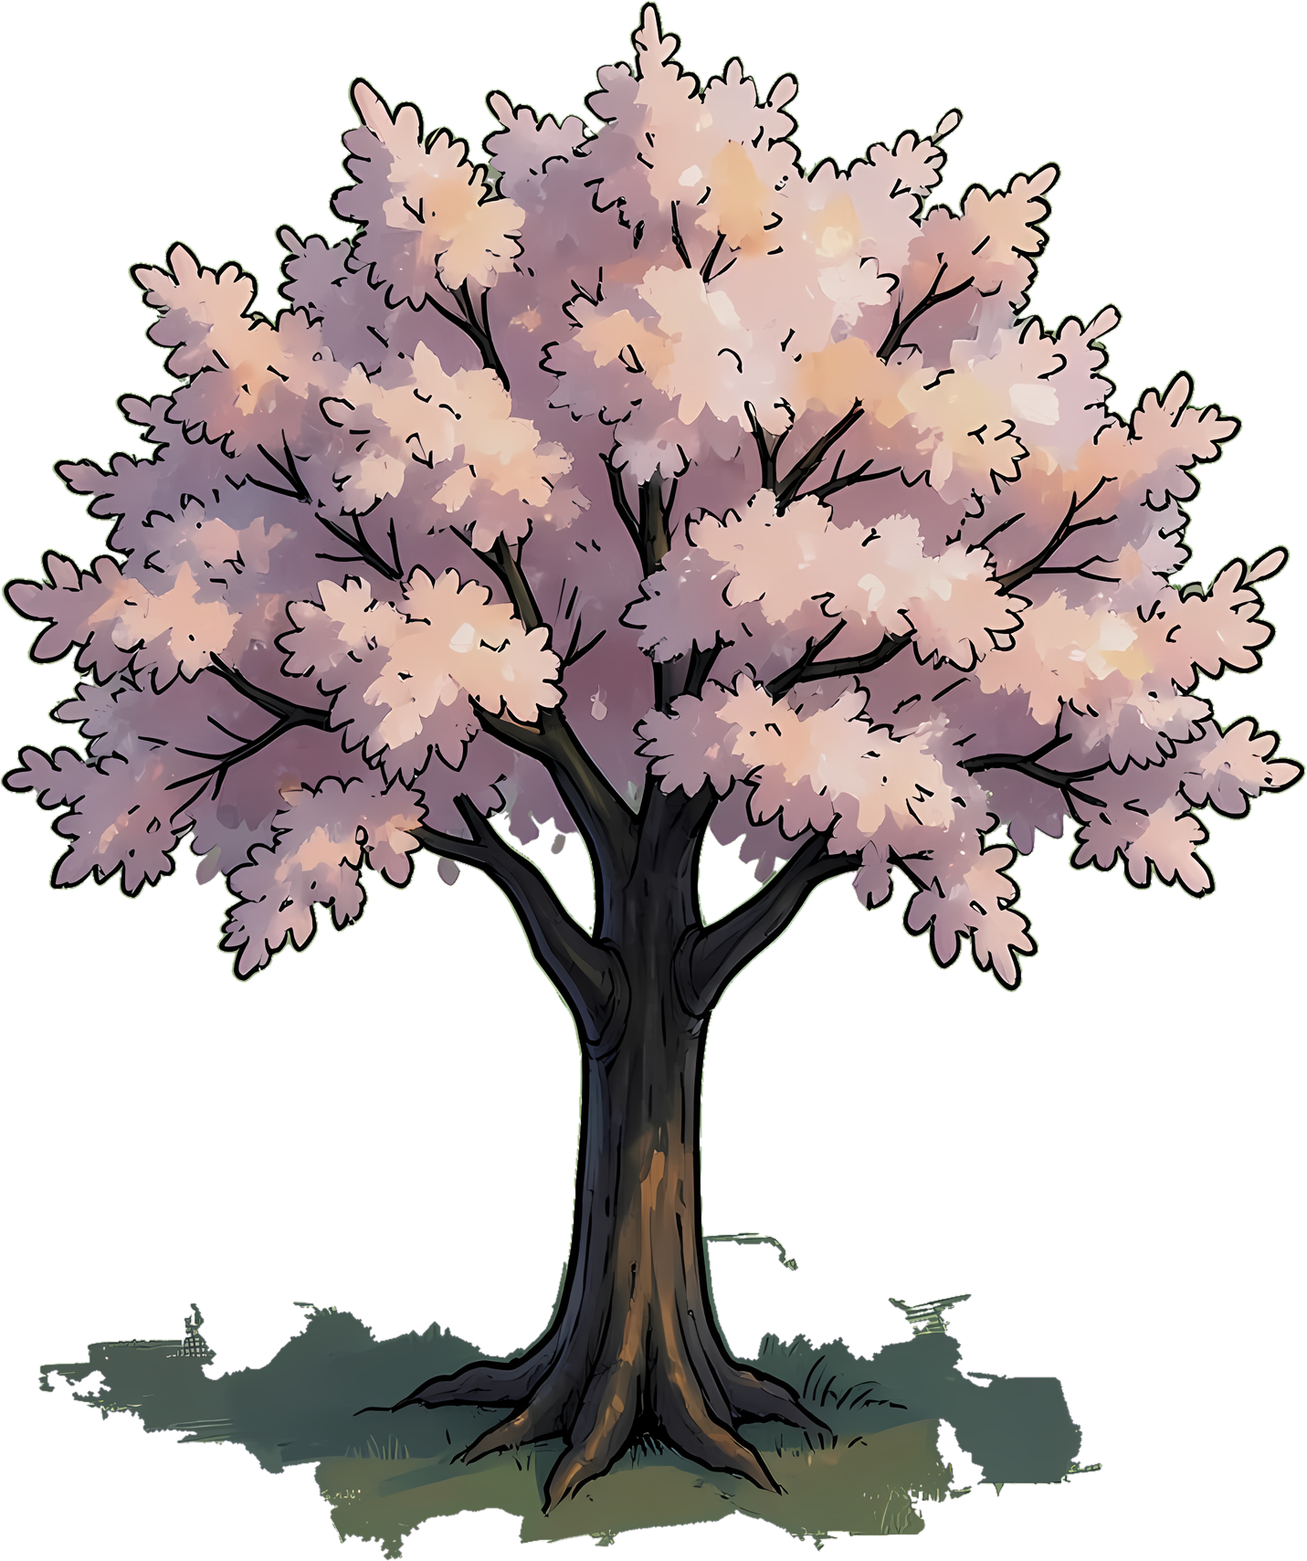
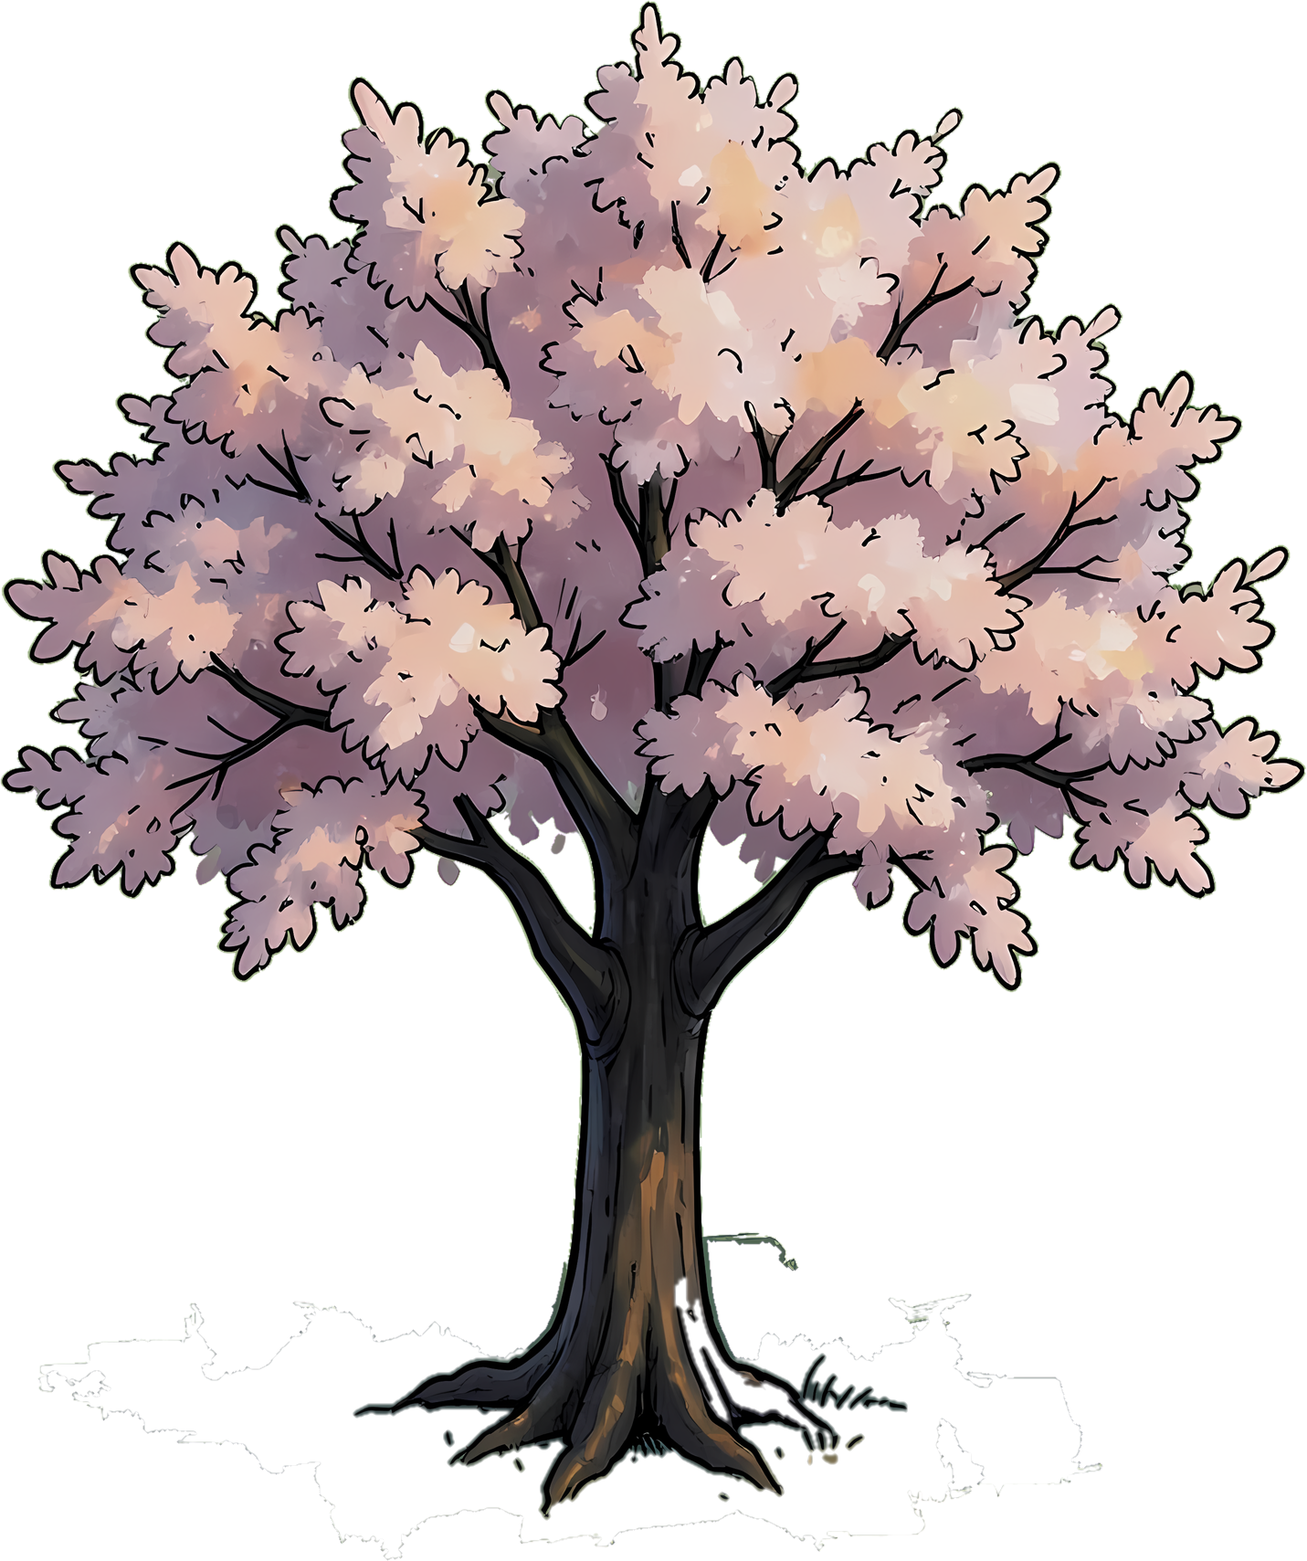
Mapas de normales para los 18 árboles Arcane y sprites sin suelo pintado
tools/normales_elementos.py genera <id>_normal.png (inflado por silueta, piezas de tinta y pinceladas) y con
--quitar-suelo borra la hierba y la sombra pintada que el recorte traía al pie (originales en v1_con_suelo/).
Dibujo.ts carga el normal y screenTex lo cuelga de la textura de pantalla (variante _f para los volteados), así
los árboles van con el pipeline Cel y de noche la farola les da por su lado. Capturas en assets/gen/normales/elementos/.

Changed region(s): [[0.0307, 0.8063, 0.8302, 1.0]]

diff --git a/src/render/Terrain.ts b/src/render/Terrain.ts
@@ -41,19 +41,38 @@ export const DECALS: DecalKind[] = [
 
 // Textura reducida de antemano a `ph` px de alto en pantalla, a mitades (la GPU sin mipmaps
 // dentaría los trazos al reducir mucho).
-export function screenTex(scene: Phaser.Scene, name: string, ph: number): string {
+// Reduce la textura `name` al alto `ph` en pantalla (por mitades, con suavizado) y la cachea como `${name}_${ph}`.
+// Si hay un mapa de normales `${name}_nrm` (tools/normales_elementos.py), se reduce igual y se cuelga como dataSource
+// de la textura: así Aventura/WorldScene le ponen el pipeline «Cel» y la luz le da volumen. Con `flip` (el elemento va
+// con setFlipX) la X de la normal se invierte (rojo = 255 - rojo), porque el pipeline de luz de Phaser no voltea las
+// normales; sale una textura aparte (`_f`), con la misma imagen.
+export function screenTex(scene: Phaser.Scene, name: string, ph: number, flip = false): string {
   const src = scene.textures.get(name).getSourceImage() as HTMLImageElement | HTMLCanvasElement;
-  const pw = Math.round(src.width * ph / src.height), key = `${name}_${ph}`;
+  const nrm = scene.textures.exists(name + '_nrm') ? scene.textures.get(name + '_nrm').getSourceImage() as HTMLImageElement | HTMLCanvasElement : null;
+  const pw = Math.round(src.width * ph / src.height), key = `${name}_${ph}${nrm && flip ? '_f' : ''}`;
   if (!scene.textures.exists(key)) {
-    let c: HTMLImageElement | HTMLCanvasElement = src, cw = src.width, ch = src.height;
-    do {
-      cw = Math.max(pw, Math.round(cw / 2)); ch = Math.max(ph, Math.round(ch / 2));
-      const n = document.createElement('canvas'); n.width = cw; n.height = ch;
-      const g = n.getContext('2d')!; g.imageSmoothingQuality = 'high'; g.drawImage(c, 0, 0, cw, ch); c = n;
-    } while (cw > pw || ch > ph);
-    scene.textures.addCanvas(key, c as HTMLCanvasElement)!.setFilter(Phaser.Textures.FilterMode.LINEAR);
+    const tex = scene.textures.addCanvas(key, reducir(src, pw, ph))!;
+    tex.setFilter(Phaser.Textures.FilterMode.LINEAR);
+    if (nrm) {
+      const n = reducir(nrm, pw, ph);
+      if (flip) {
+        const g = n.getContext('2d')!, d = g.getImageData(0, 0, n.width, n.height);
+        for (let i = 0; i < d.data.length; i += 4) d.data[i] = 255 - d.data[i];
+        g.putImageData(d, 0, 0);
+      }
+      tex.setDataSource(n);
+    }
   }
   return key;
+}
+function reducir(src: HTMLImageElement | HTMLCanvasElement, pw: number, ph: number): HTMLCanvasElement {
+  let c: HTMLImageElement | HTMLCanvasElement = src, cw = src.width, ch = src.height;
+  do {
+    cw = Math.max(pw, Math.round(cw / 2)); ch = Math.max(ph, Math.round(ch / 2));
+    const n = document.createElement('canvas'); n.width = cw; n.height = ch;
+    const g = n.getContext('2d')!; g.imageSmoothingQuality = 'high'; g.drawImage(c, 0, 0, cw, ch); c = n;
+  } while (cw > pw || ch > ph);
+  return c as HTMLCanvasElement;
 }
 
 function pixels(scene: Phaser.Scene, key: string): Uint8ClampedArray {

diff --git a/src/render/Dibujo.ts b/src/render/Dibujo.ts
@@ -8,6 +8,9 @@ import { F, PNG_X, type Colocado } from '../data/mapaDibujo';
 import { screenTex } from './Terrain';
 
 export const L = '/lab/assets/';
+// Elementos Arcane con mapa de normales (tools/normales_elementos.py: <id>_normal.png junto al PNG). Se cargan como
+// `el_<id>_nrm` y screenTex los cuelga de la textura de pantalla; con eso el elemento va con el pipeline «Cel».
+const NORMALES = new Set(Object.keys(import.meta.glob('/lab/assets/elementos_arcane/*_normal.png')).map(r => r.replace(/^.*\//, '').replace('_normal.png', '')));
 export const SOMBRA_ALFA = 0.45;
 
 export interface Elemento {
@@ -109,6 +112,7 @@ export function precargar(scene: Phaser.Scene, cat: { elementos: Elemento[]; vec
     if (el.sombra) scene.load.image('so_' + el.id, `${L}${dir}/${el.sombra.archivo}`);
     if (dir === 'elementos_klein' && vec.has(el.id)) scene.load.svg('el_' + el.id, `${L}vector/elementos_klein/${el.id}.svg`, { scale: F / PNG_X * S * (el.k ?? 1) * (ESCALA[el.id] ?? 1) });
     else scene.load.image('el_' + el.id, `${L}${dir}/${el.archivo}`);
+    if (dir === 'elementos_arcane' && NORMALES.has(el.id)) scene.load.image('el_' + el.id + '_nrm', `${L}${dir}/${el.id}_normal.png`);
   }
 }
 
@@ -121,7 +125,7 @@ export function ponerTinteSombra(t: number): void { tinteSombra = t; }
 // ordenado por la base de su huella; los planos (caminos, detalles, estanque) van a ras de suelo.
 export function dibujar(scene: Phaser.Scene, el: Elemento, c: Colocado): Pieza {
   const k = F / PNG_X * (c.s ?? 1) * (el.k ?? 1) * (ESCALA[el.id] ?? 1), hM = el.h * k;
-  const key = screenTex(scene, 'el_' + el.id, Math.max(1, Math.round(hM * S)));
+  const key = screenTex(scene, 'el_' + el.id, Math.max(1, Math.round(hM * S)), !!c.flip);
   const [ax, ay] = el.ancla, plano = el.tipo === 'piedras' || el.tipo === 'losa' || el.tipo === 'detalle' || el.tipo === 'estanque' || el.tipo === 'puente';
   // Farolas: la huella del catálogo abarca medio poste (no se podía pasar por detrás); solo la base de piedra.
   let hu = el.huella ?? (el.huellas ? [Math.min(...el.huellas.map(q => q[0])), Math.min(...el.huellas.map(q => q[1])), Math.max(...el.huellas.map(q => q[2])), Math.max(...el.huellas.map(q => q[3]))] as Elemento['huella'] : null);

diff --git a/tools/normales_elementos.py b/tools/normales_elementos.py
@@ -1,0 +1,196 @@
+"""Mapas de normales para los elementos del escenario (catálogo Arcane), para el pipeline cel / Light2D.
+
+Uso:  python -I tools/normales_elementos.py --arboles [--vista]
+      python -I tools/normales_elementos.py arbol_alto sauce [--reduccion 2] [--fuerza 1.5] [--detalle 4] [--vista]
+
+Para cada `lab/assets/elementos_arcane/<id>.png` escribe `<id>_normal.png` al lado, a 1/`reduccion` del tamaño del
+PNG (los PNG van a ×2 del dibujo y en pantalla se reducen mucho más; a la mitad sobra resolución y el archivo pesa
+un cuarto). El juego lo carga como `el_<id>_nrm` (src/render/Dibujo.ts) y `screenTex` lo reduce junto al elemento y
+lo cuelga como dataSource de la textura de pantalla; con eso Aventura/WorldScene le ponen el pipeline «Cel».
+Con `--vista` guarda una comparativa en `assets/gen/normales/elementos/<id>.png` (elemento, normal y 4 luces).
+
+Cómo se calcula la altura (el mismo "inflado" de tools/normales_pokemon.py, adaptado a un dibujo grande pintado):
+  1. silueta: distancia al borde → semiesfera (la copa entera abomba; el tronco, estrecho, sale como un cilindro);
+  2. piezas: las líneas de tinta (casi negras) separan las matas de hojas, las ramas y la corteza; cada pieza se
+     infla por su cuenta y la línea queda como un surco (altura del vecino más bajo);
+  3. detalle: paso alto de la luminancia (las pinceladas) añade relieve fino;
+  4. suelo: la hierba y la sombra pintada que el recorte trae pegadas al pie (opacas, sin tinta alrededor: densidad de
+     tinta casi nula en la mitad de abajo, manchas que llegan a la base) se aplanan, para que no salgan como un montículo.
+Convención OpenGL (verde = arriba), la de Phaser. Fuera del elemento, normal plana (128,128,255).
+
+`--quitar-suelo` (2026-10-17): además borra ese suelo pintado del PNG del elemento (alfa 0, borde suavizado), guardando
+antes el original en `lab/assets/elementos_arcane/v1_con_suelo/<id>.png`. El sprite queda solo con el árbol; la sombra la
+pone el juego (óvalo de día; de noche, sin sombra pintada que se encienda con las farolas). La máscara se calcula a la
+resolución reducida y se amplía al PNG; se extiende a lo verdoso pegado a la mancha que no esté encerrado por tinta (el
+ribete de hierba junto a las raíces), y respeta la tinta y lo que encierra (raíces, copas bajas). Después hay que pasar lab/tools/mascaras_arcane.py (la silueta `cubre` del catálogo cambia).
+"""
+import argparse
+import json
+import os
+import sys
+
+import numpy as np
+from PIL import Image
+from scipy import ndimage as ndi
+
+RAIZ = os.path.dirname(os.path.dirname(os.path.abspath(__file__)))
+sys.path.insert(0, os.path.dirname(os.path.abspath(__file__)))
+from normales_pokemon import inflar, iluminar, normales  # noqa: E402
+
+CARPETA = os.path.join(RAIZ, 'lab', 'assets', 'elementos_arcane')
+VISTAS = os.path.join(RAIZ, 'assets', 'gen', 'normales', 'elementos')
+# Los árboles del catálogo (por id: las farolas también son `tipo: arbol` y las arboledas, `roca`).
+PREFIJOS_ARBOL = ('arbol_', 'arboleda_', 'sauce', 'palmera', 'pino_')
+
+
+def catalogo() -> dict[str, dict]:
+    with open(os.path.join(CARPETA, 'elementos.json'), encoding='utf-8') as f:
+        return {e['id']: e for e in json.load(f)['elementos']}
+
+
+def arboles() -> list[str]:
+    return sorted(i for i in catalogo() if i.startswith(PREFIJOS_ARBOL))
+
+
+def tinta(rgba: np.ndarray, umbral: float = 0.07) -> tuple[np.ndarray, np.ndarray, np.ndarray]:
+    """Alfa, luminancia y líneas de tinta (casi negras) de un elemento."""
+    a = rgba[..., 3] > 128
+    rgb = rgba[..., :3].astype(np.float32) / 255
+    lum = 0.299 * rgb[..., 0] + 0.587 * rgb[..., 1] + 0.114 * rgb[..., 2]
+    return a, lum, a & (lum < umbral)
+
+
+def mascara_suelo(a: np.ndarray, contorno: np.ndarray) -> np.ndarray:
+    """Suelo pintado que el recorte trae pegado al pie: manchas opacas sin tinta alrededor (densidad de tinta casi nula
+    en una ventana de 41 px), en la mitad de abajo y que llegan a la base (hierba, sombra pintada). Sin la banda de
+    seguridad junto a la tinta: eso lo decide quien la use."""
+    H = a.shape[0]
+    dens = ndi.uniform_filter(contorno.astype(np.float32), 41)
+    ys = np.arange(H)[:, None]
+    tierra = a & (dens < 0.012) & (ys > 0.5 * H)
+    tierra = ndi.binary_opening(tierra, iterations=4)
+    etiq, n = ndi.label(tierra)
+    if not n:
+        return tierra
+    ymax = ndi.maximum(np.broadcast_to(ys, a.shape), etiq, index=np.arange(1, n + 1))
+    return np.isin(etiq, 1 + np.flatnonzero(np.asarray(ymax) > 0.85 * H))
+
+
+def altura(rgba: np.ndarray, detalle_k: float, umbral: float = 0.07) -> tuple[np.ndarray, np.ndarray]:
+    a, lum, contorno = tinta(rgba, umbral)
+    # 1. silueta
+    h_sil = inflar(a, 0.9)
+    # 2. piezas separadas por la tinta; la línea es un surco: altura del vecino interior más bajo
+    interior = a & ~contorno
+    h_pz = inflar(interior, 1.0)
+    if contorno.any():
+        hp = np.where(interior, h_pz, 1e9)
+        vecino_min = ndi.minimum_filter(hp, size=5)
+        vecino_min = np.where(vecino_min > 1e8, 0, vecino_min)
+        h_pz = np.where(contorno, np.maximum(vecino_min - 1.0, 0), h_pz)
+    # 3. detalle: paso alto de la luminancia, solo dentro (sin inventar relieve en el borde)
+    sigma = 2.0
+    lum_in = np.where(a, lum, 0)
+    peso = ndi.gaussian_filter(a.astype(np.float32), sigma)
+    suave = ndi.gaussian_filter(lum_in, sigma) / np.maximum(peso, 1e-3)
+    detalle = np.where(a, lum - suave, 0)
+    h = 0.5 * h_sil + 0.9 * h_pz
+    # 4. suelo: se aplana (si el PNG ya está limpio con --quitar-suelo, la máscara sale vacía)
+    tierra = mascara_suelo(a, contorno)
+    if tierra.any():
+        tierra = ndi.binary_dilation(tierra, iterations=6) & a
+        h = h * (1 - ndi.gaussian_filter(tierra.astype(np.float32), 4))
+    h = h + detalle_k * detalle
+    return np.where(a, h, 0).astype(np.float32), a
+
+
+def reducir(img: Image.Image, reduccion: int) -> np.ndarray:
+    """RGBA reducido con el color desmezclado del alfa (sin halos oscuros del fondo transparente)."""
+    W, H = img.size
+    w, h = max(1, round(W / reduccion)), max(1, round(H / reduccion))
+    src = np.asarray(img).astype(np.float32)
+    prem = src.copy(); prem[..., :3] *= src[..., 3:4] / 255
+    red = np.asarray(Image.fromarray(np.clip(prem, 0, 255).astype(np.uint8)).resize((w, h), Image.LANCZOS)).astype(np.float32)
+    al = np.maximum(red[..., 3:4], 1)
+    rgba = red.copy(); rgba[..., :3] = np.clip(red[..., :3] * 255 / al, 0, 255)
+    return rgba.astype(np.uint8)
+
+
+def quitar_suelo(id_: str, reduccion: int) -> bool:
+    """Borra el suelo pintado del PNG (original a v1_con_suelo/). Devuelve si había algo que quitar."""
+    ruta = os.path.join(CARPETA, f'{id_}.png')
+    img = Image.open(ruta).convert('RGBA')
+    a, _, contorno = tinta(reducir(img, reduccion))
+    tierra = mascara_suelo(a, contorno)
+    if not tierra.any():
+        return False
+    # Lo que rodea la mancha (ribete de hierba junto a las raíces, matas entre raíz y raíz) también se va si es verdoso,
+    # no es tinta ni nieve y no está encerrado por tinta (las copas bajas y las raíces sí lo están).
+    rgb = reducir(img, reduccion)[..., :3].astype(np.int16)
+    _, lum, _ = tinta(reducir(img, reduccion))
+    verdoso = (rgb[..., 1] >= rgb[..., 0] - 5) & (lum < 0.55)
+    cerrado = ndi.binary_fill_holes(ndi.binary_dilation(contorno, iterations=2))
+    ys = np.arange(a.shape[0])[:, None]
+    candidata = a & verdoso & ~cerrado & ~contorno & (ys > 0.5 * a.shape[0])
+    etiq, n = ndi.label(candidata | tierra)   # lo verdoso que toca la mancha (la tinta hace de barrera)
+    toca = np.unique(etiq[tierra]); toca = toca[toca > 0]
+    tierra = np.isin(etiq, toca)
+    W, H = img.size
+    m = np.asarray(Image.fromarray(tierra.astype(np.uint8) * 255).resize((W, H), Image.BILINEAR)).astype(np.float32) / 255
+    m = np.clip(ndi.gaussian_filter(m, 1.5) * 1.3, 0, 1)   # borde suave sin dejar un halo de medio píxel
+    copia = os.path.join(CARPETA, 'v1_con_suelo')
+    os.makedirs(copia, exist_ok=True)
+    if not os.path.exists(os.path.join(copia, f'{id_}.png')):
+        img.save(os.path.join(copia, f'{id_}.png'))
+    rgba = np.asarray(img).copy()
+    rgba[..., 3] = np.clip(np.round(rgba[..., 3] * (1 - m)), 0, 255).astype(np.uint8)
+    Image.fromarray(rgba).save(ruta, optimize=True)
+    return True
+
+
+def procesar(id_: str, reduccion: int, fuerza: float, detalle_k: float, vista: bool) -> str:
+    img = Image.open(os.path.join(CARPETA, f'{id_}.png')).convert('RGBA')
+    rgba = reducir(img, reduccion)
+    h, w = rgba.shape[:2]
+    hh, a = altura(rgba, detalle_k)
+    nrm = normales(hh, a, fuerza)
+    destino = os.path.join(CARPETA, f'{id_}_normal.png')
+    Image.fromarray(nrm).save(destino, optimize=True)
+    if vista:
+        os.makedirs(VISTAS, exist_ok=True)
+        fichas = [rgba, np.dstack([nrm, np.full((h, w), 255, np.uint8)])]
+        for luz in [(-1, 1, 0.5), (1, 1, 0.5), (-1, -1, 0.5), (0, 0, 1)]:
+            fichas.append(iluminar(rgba, nrm, luz, ambiente=0.25))
+        tira = np.concatenate(fichas, axis=1)
+        fondo = np.zeros_like(tira); fondo[..., :3] = 70; fondo[..., 3] = 255
+        al = tira[..., 3:4].astype(np.float32) / 255
+        comp = (tira[..., :3] * al + fondo[..., :3] * (1 - al)).astype(np.uint8)
+        im = Image.fromarray(comp)
+        im = im.resize((im.width // 2, im.height // 2), Image.LANCZOS)
+        im.save(os.path.join(VISTAS, f'{id_}.png'))
+    return destino
+
+
+def main() -> None:
+    ap = argparse.ArgumentParser(description=__doc__, formatter_class=argparse.RawDescriptionHelpFormatter)
+    ap.add_argument('ids', nargs='*', help='ids del catálogo Arcane (arbol_alto, sauce…)')
+    ap.add_argument('--arboles', action='store_true', help='todos los árboles del catálogo')
+    ap.add_argument('--reduccion', type=int, default=2, help='el normal sale a 1/N del PNG (2 = mitad)')
+    ap.add_argument('--fuerza', type=float, default=1.5, help='multiplica la pendiente de las normales')
+    ap.add_argument('--detalle', type=float, default=4.0, help='relieve de las pinceladas (0 = solo volumen)')
+    ap.add_argument('--vista', action='store_true', help='guardar comparativa en assets/gen/normales/elementos/')
+    ap.add_argument('--quitar-suelo', action='store_true', help='borrar antes el suelo pintado del PNG (original a v1_con_suelo/)')
+    ap.add_argument('--menos', nargs='*', default=[], help='ids que se saltan (p. ej. los que se limpian a mano)')
+    args = ap.parse_args()
+    ids = list(args.ids) + (arboles() if args.arboles else [])
+    if not ids:
+        ap.error('indica ids o --arboles')
+    ids = [i for i in dict.fromkeys(ids) if i not in args.menos]
+    for i in ids:
+        if args.quitar_suelo:
+            print('suelo quitado' if quitar_suelo(i, args.reduccion) else 'sin suelo que quitar', i)
+        print(procesar(i, args.reduccion, args.fuerza, args.detalle, args.vista))
+
+
+if __name__ == '__main__':
+    sys.exit(main())

diff --git a/docs/art/PIPELINE.md b/docs/art/PIPELINE.md
@@ -307,6 +307,31 @@ y luces propias de ataques, partículas y efectos (destello eléctrico duro, lla
 la transición sean por luz, no globales: ampliar `Phaser.GameObjects.Light` con esos campos y pasarlos al shader como
 uniformes por luz (hoy `uAltura`/`uSuave` son únicos para todo el pipeline).
 
+## 6d. Mapas de normales para los árboles del escenario (2026-10-17)
+
+`tools/normales_elementos.py --arboles [--vista]` (o ids sueltos: `arbol_alto sauce…`) escribe
+`lab/assets/elementos_arcane/<id>_normal.png` junto a cada PNG del catálogo Arcane, a la mitad de su tamaño (`--reduccion 2`;
+en pantalla se reducen mucho más y así cada uno pesa 0,5-1 MB). Hechos los 18 árboles: `arbol_alto/bajo/flores/muerto/
+quemado/viejo/alcorque`, `sauce`, `palmera`, `pino_seco/nevado` y las siete `arboleda_<bioma>`. Mismo "inflado" que
+§6c (silueta → semiesfera; piezas separadas por la tinta, cada mata de hojas abomba por su cuenta y la línea queda
+como surco; paso alto de la luminancia para las pinceladas) con dos cambios para un dibujo grande: la tinta es lo casi
+negro (`lum < 0.07`, un 5-10 % de los píxeles) y **el suelo que el recorte trae pegado** (la hierba y la sombra pintada al
+pie: opaco, sin tinta alrededor, en la mitad de abajo y llegando a la base) se aplana, porque si no salía como un montículo.
+Comparativas (elemento, normal, 4 luces): `assets/gen/normales/elementos/<id>.png`.
+**Suelo pintado fuera del sprite (2026-10-17, tarde):** de noche esa mancha se encendía con la farola como un charco verde
+claro, así que el sprite queda 100 % sin hierba ni sombra: la sombra la pone el juego. `--quitar-suelo` la borra del PNG
+(originales en `lab/assets/elementos_arcane/v1_con_suelo/`): la mancha detectada se extiende a todo lo verdoso que la toca
+y no está encerrado por tinta (el ribete junto a las raíces), con la tinta como barrera y el borde suavizado. Hecho en 17
+(`--menos arbol_alto`: ese lo limpió el usuario a mano en Photoshop; el lienzo salió recortado a 1366×1642 y se volvió a montar en el de 1643×1729 a (277, 0), que es lo que espera el catálogo; su recorte está en `v1_con_suelo/arbol_alto_recorte_usuario.png`). Después, `lab/tools/mascaras_arcane.py`
+(cambia `cubre`). Quedan matas pequeñas entre raíces (encerradas por tinta), invisibles a escala de juego.
+En el juego: `Dibujo.precargar` carga `el_<id>_nrm` si existe el archivo (glob de Vite) y `screenTex` (Terrain.ts) lo reduce
+junto al elemento y lo cuelga como `dataSource` de la textura de pantalla; con eso `Aventura.iluminar`/`WorldScene.iluminar`
+le ponen el pipeline «Cel» (los mismos parámetros que los Pokémon). Los elementos volteados (`flip`) llevan una textura
+aparte (`_f`) con la X de la normal invertida, porque el pipeline de luz de Phaser no voltea las normales. De día no cambia
+nada (ambiente blanco, sin luces); de noche, las matas de la copa que miran a la farola se encienden en bandas:
+`assets/gen/normales/elementos/pueblo_noche_con_normales.jpg` frente a `pueblo_noche_sin_normales.jpg`.
+Pendiente: el resto del catálogo (casas, rocas, muros) con el mismo script (habrá que afinar el detector de suelo por tipo).
+
 ## 7. Pendiente
 
 - Detalles del suelo (piedrecitas, matitas, manchas).

diff --git a/lab/README.md b/lab/README.md
@@ -137,7 +137,7 @@ http://127.0.0.1:5179/lab/?noche=1 — el mismo valle de noche, aprovechando los
   Una farola del mapa elige el suyo con `luz: 'vela'` en `Colocado`. **Banco de pruebas: `?luces=1`**: el valle vacío de
   noche con una farola por tipo, en fila y con su nombre encima (capturas `assets/captura_luces_a.png`, `_b.png`).
 - Las sombras proyectadas de Klein se pintan con menos opacidad (0,2) de noche.
-- Pendiente: normales para los elementos (casas, árboles) para que la luz les dé volumen; luces por ventanas; ciclo
+- Pendiente: normales para los elementos (casas, rocas; los árboles Arcane ya los tienen, 2026-10-17: PIPELINE §6d) para que la luz les dé volumen; luces por ventanas; ciclo
   día/noche real (hoy es un modo fijo).
 
 ## Receta para añadir elementos de otro dibujo

diff --git a/docs/art/ARCANE.md b/docs/art/ARCANE.md
@@ -30,7 +30,8 @@ Las zonas colocan los elementos por id (`arbol_alto`, `roca_2`…). Cambiar de e
 - **Agua:** la del suelo con la paleta Arcane (azul verdoso apagado). Más adelante, una textura de pinceladas como
   la de la referencia y ondas en la orilla.
 - **Luz:** la curva del día (`luzAmbiente`) se queda, quizá con un ambiente algo más frío. La noche con farolas
-  encaja muy bien con Arcane.
+  encaja muy bien con Arcane. **Los 18 árboles llevan mapa de normales (2026-10-17, `tools/normales_elementos.py`,
+  PIPELINE §6d): de noche la farola les da por su lado, en bandas (pipeline cel).**
 
 ## Referencia única
 Hace de **referencia de estilo** la escena repintada `assets/gen/ab_lago/escena/arcane_s1_0.png` (copia en
